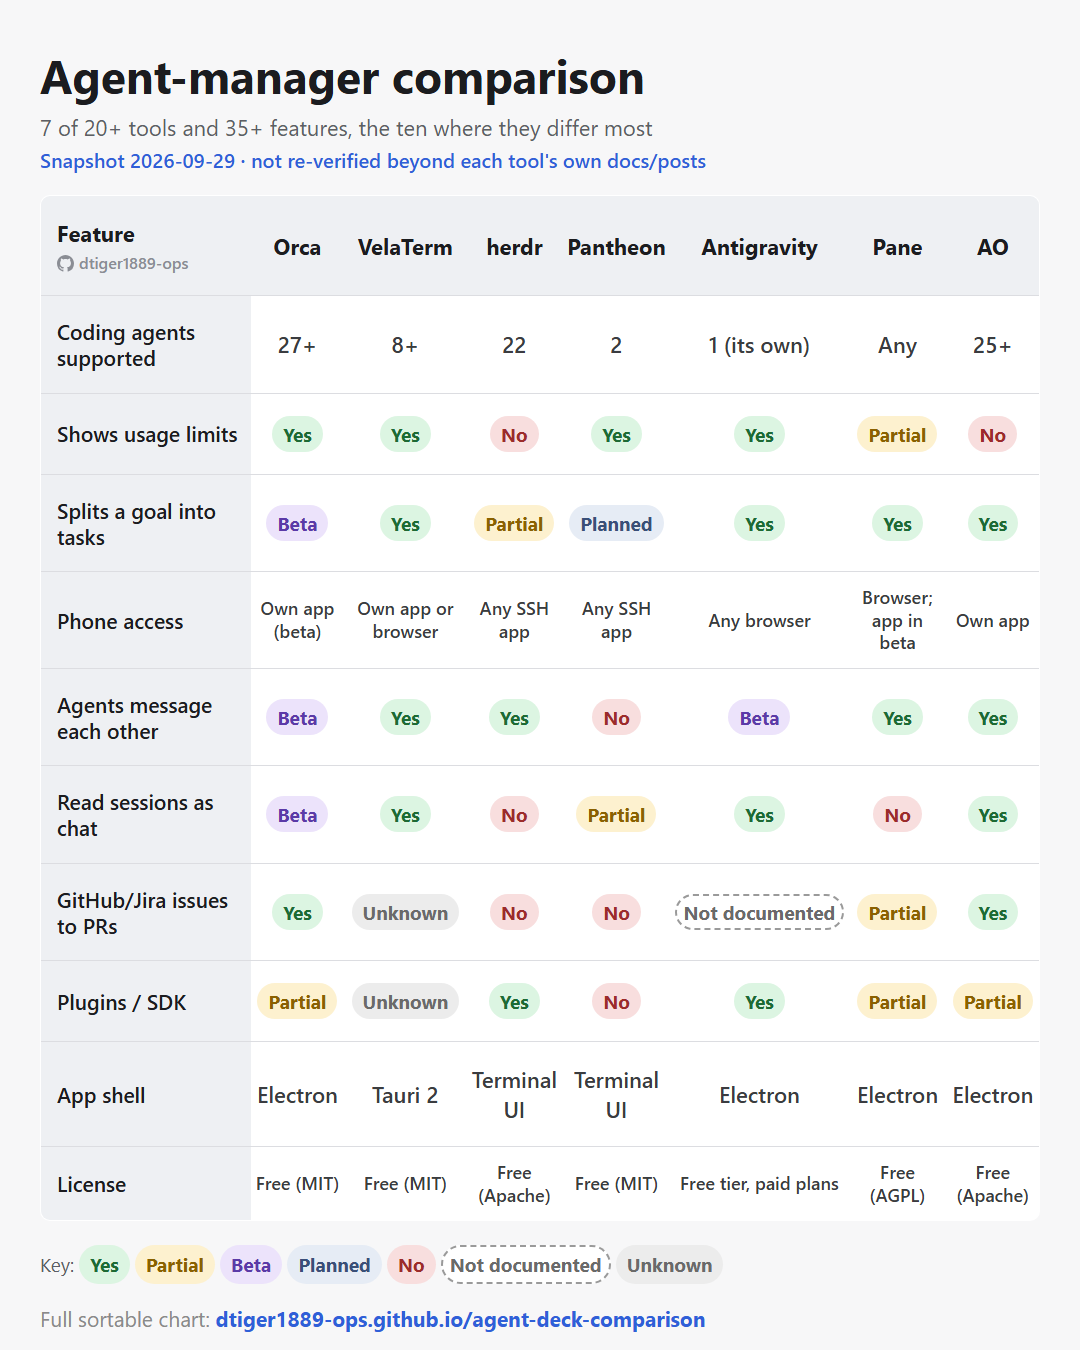
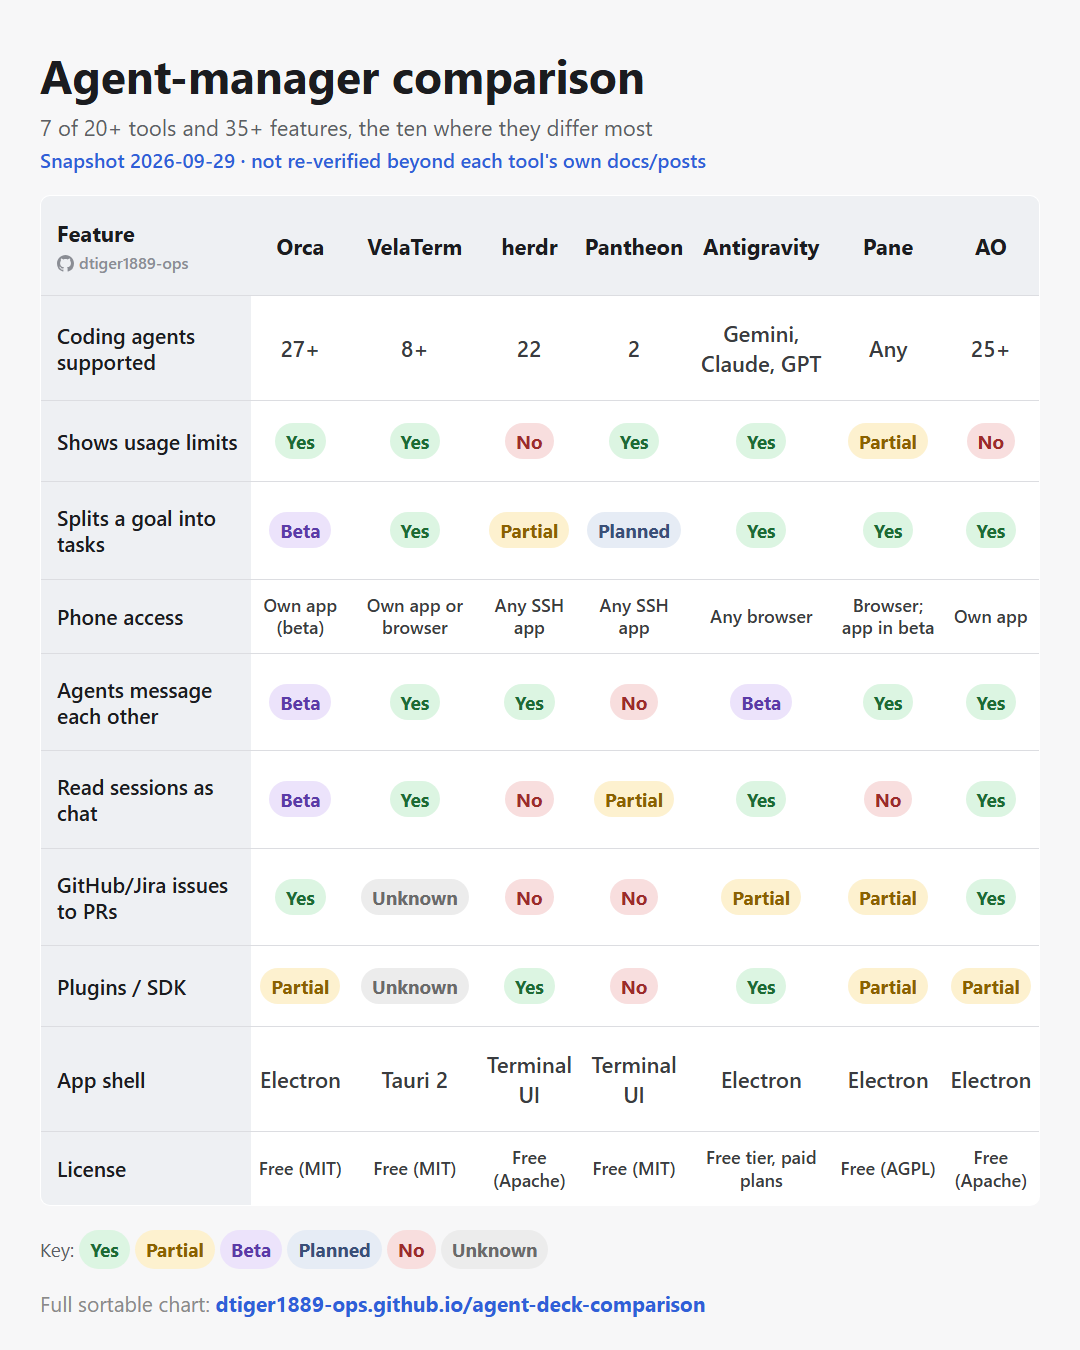
Antigravity: runs Gemini, Claude or GPT (Yes); issues to PRs through GitHub's MCP server (Partial); multi-agent wording for Claude and ChatGPT Desktop

diff --git a/assets/share-2.html b/assets/share-2.html
@@ -30,8 +30,8 @@
   <p class="snap">Snapshot 2026-09-29 &middot; not re-verified beyond each tool's own docs/posts</p>
   <table>
     <thead><tr><th>Feature<span class="wm"><svg class="gh" viewBox="0 0 16 16" width="17" height="17" aria-hidden="true"><path fill="currentColor" d="M8 0c4.42 0 8 3.58 8 8a8.013 8.013 0 0 1-5.45 7.59c-.4.08-.55-.17-.55-.38 0-.27.01-1.13.01-2.2 0-.75-.25-1.23-.54-1.48 1.78-.2 3.65-.88 3.65-3.95 0-.88-.31-1.59-.82-2.15.08-.2.36-1.02-.08-2.12 0 0-.67-.22-2.2.82-.64-.18-1.32-.27-2-.27-.68 0-1.36.09-2 .27-1.53-1.03-2.2-.82-2.2-.82-.44 1.1-.16 1.92-.08 2.12-.51.56-.82 1.28-.82 2.15 0 3.06 1.86 3.75 3.64 3.95-.23.2-.44.55-.51 1.07-.46.21-1.61.55-2.33-.66-.15-.24-.6-.83-1.23-.82-.67.01-.27.38.01.53.34.19.73.9.82 1.13.16.45.68 1.31 2.69.94 0 .67.01 1.3.01 1.49 0 .21-.15.45-.55.37A7.995 7.995 0 0 1 0 8c0-4.42 3.58-8 8-8Z"/></svg>dtiger1889-ops</span></th><th>Orca</th><th>VelaTerm</th><th>herdr</th><th>Pantheon</th><th>Antigravity</th><th>Pane</th><th>AO</th></tr></thead>
-    <tbody><tr><th>Coding agents supported</th><td class="plain">27+</td><td class="plain">8+</td><td class="plain">22</td><td class="plain">2</td><td class="plain">1 (its own)</td><td class="plain">Any</td><td class="plain">25+</td></tr><tr><th>Shows usage limits</th><td><span class="b" style="background:#dcf5e2;color:#1d6b34">Yes</span></td><td><span class="b" style="background:#dcf5e2;color:#1d6b34">Yes</span></td><td><span class="b" style="background:#f8dede;color:#9c2b2b">No</span></td><td><span class="b" style="background:#dcf5e2;color:#1d6b34">Yes</span></td><td><span class="b" style="background:#dcf5e2;color:#1d6b34">Yes</span></td><td><span class="b" style="background:#fdf1cf;color:#8a6100">Partial</span></td><td><span class="b" style="background:#f8dede;color:#9c2b2b">No</span></td></tr><tr><th>Splits a goal into tasks</th><td><span class="b" style="background:#ece3fb;color:#5b3aa8">Beta</span></td><td><span class="b" style="background:#dcf5e2;color:#1d6b34">Yes</span></td><td><span class="b" style="background:#fdf1cf;color:#8a6100">Partial</span></td><td><span class="b" style="background:#e6ecf5;color:#3a4f78">Planned</span></td><td><span class="b" style="background:#dcf5e2;color:#1d6b34">Yes</span></td><td><span class="b" style="background:#dcf5e2;color:#1d6b34">Yes</span></td><td><span class="b" style="background:#dcf5e2;color:#1d6b34">Yes</span></td></tr><tr><th>Phone access</th><td class="plain small">Own app (beta)</td><td class="plain small">Own app or browser</td><td class="plain small">Any SSH app</td><td class="plain small">Any SSH app</td><td class="plain small">Any browser</td><td class="plain small">Browser; app in beta</td><td class="plain small">Own app</td></tr><tr><th>Agents message each other</th><td><span class="b" style="background:#ece3fb;color:#5b3aa8">Beta</span></td><td><span class="b" style="background:#dcf5e2;color:#1d6b34">Yes</span></td><td><span class="b" style="background:#dcf5e2;color:#1d6b34">Yes</span></td><td><span class="b" style="background:#f8dede;color:#9c2b2b">No</span></td><td><span class="b" style="background:#ece3fb;color:#5b3aa8">Beta</span></td><td><span class="b" style="background:#dcf5e2;color:#1d6b34">Yes</span></td><td><span class="b" style="background:#dcf5e2;color:#1d6b34">Yes</span></td></tr><tr><th>Read sessions as chat</th><td><span class="b" style="background:#ece3fb;color:#5b3aa8">Beta</span></td><td><span class="b" style="background:#dcf5e2;color:#1d6b34">Yes</span></td><td><span class="b" style="background:#f8dede;color:#9c2b2b">No</span></td><td><span class="b" style="background:#fdf1cf;color:#8a6100">Partial</span></td><td><span class="b" style="background:#dcf5e2;color:#1d6b34">Yes</span></td><td><span class="b" style="background:#f8dede;color:#9c2b2b">No</span></td><td><span class="b" style="background:#dcf5e2;color:#1d6b34">Yes</span></td></tr><tr><th>GitHub/Jira issues to PRs</th><td><span class="b" style="background:#dcf5e2;color:#1d6b34">Yes</span></td><td><span class="b" style="background:#ececec;color:#6a6a6a">Unknown</span></td><td><span class="b" style="background:#f8dede;color:#9c2b2b">No</span></td><td><span class="b" style="background:#f8dede;color:#9c2b2b">No</span></td><td><span class="b" style="background:#ffffff;color:#6a6a6a;border:2px dashed #9a9a9a;padding:3px 7px">Not documented</span></td><td><span class="b" style="background:#fdf1cf;color:#8a6100">Partial</span></td><td><span class="b" style="background:#dcf5e2;color:#1d6b34">Yes</span></td></tr><tr><th>Plugins / SDK</th><td><span class="b" style="background:#fdf1cf;color:#8a6100">Partial</span></td><td><span class="b" style="background:#ececec;color:#6a6a6a">Unknown</span></td><td><span class="b" style="background:#dcf5e2;color:#1d6b34">Yes</span></td><td><span class="b" style="background:#f8dede;color:#9c2b2b">No</span></td><td><span class="b" style="background:#dcf5e2;color:#1d6b34">Yes</span></td><td><span class="b" style="background:#fdf1cf;color:#8a6100">Partial</span></td><td><span class="b" style="background:#fdf1cf;color:#8a6100">Partial</span></td></tr><tr><th>App shell</th><td class="plain">Electron</td><td class="plain">Tauri 2</td><td class="plain">Terminal UI</td><td class="plain">Terminal UI</td><td class="plain">Electron</td><td class="plain">Electron</td><td class="plain">Electron</td></tr><tr><th>License</th><td class="plain small">Free (MIT)</td><td class="plain small">Free (MIT)</td><td class="plain small">Free (Apache)</td><td class="plain small">Free (MIT)</td><td class="plain small">Free tier, paid plans</td><td class="plain small">Free (AGPL)</td><td class="plain small">Free (Apache)</td></tr></tbody>
+    <tbody><tr><th>Coding agents supported</th><td class="plain">27+</td><td class="plain">8+</td><td class="plain">22</td><td class="plain">2</td><td class="plain">Gemini, Claude, GPT</td><td class="plain">Any</td><td class="plain">25+</td></tr><tr><th>Shows usage limits</th><td><span class="b" style="background:#dcf5e2;color:#1d6b34">Yes</span></td><td><span class="b" style="background:#dcf5e2;color:#1d6b34">Yes</span></td><td><span class="b" style="background:#f8dede;color:#9c2b2b">No</span></td><td><span class="b" style="background:#dcf5e2;color:#1d6b34">Yes</span></td><td><span class="b" style="background:#dcf5e2;color:#1d6b34">Yes</span></td><td><span class="b" style="background:#fdf1cf;color:#8a6100">Partial</span></td><td><span class="b" style="background:#f8dede;color:#9c2b2b">No</span></td></tr><tr><th>Splits a goal into tasks</th><td><span class="b" style="background:#ece3fb;color:#5b3aa8">Beta</span></td><td><span class="b" style="background:#dcf5e2;color:#1d6b34">Yes</span></td><td><span class="b" style="background:#fdf1cf;color:#8a6100">Partial</span></td><td><span class="b" style="background:#e6ecf5;color:#3a4f78">Planned</span></td><td><span class="b" style="background:#dcf5e2;color:#1d6b34">Yes</span></td><td><span class="b" style="background:#dcf5e2;color:#1d6b34">Yes</span></td><td><span class="b" style="background:#dcf5e2;color:#1d6b34">Yes</span></td></tr><tr><th>Phone access</th><td class="plain small">Own app (beta)</td><td class="plain small">Own app or browser</td><td class="plain small">Any SSH app</td><td class="plain small">Any SSH app</td><td class="plain small">Any browser</td><td class="plain small">Browser; app in beta</td><td class="plain small">Own app</td></tr><tr><th>Agents message each other</th><td><span class="b" style="background:#ece3fb;color:#5b3aa8">Beta</span></td><td><span class="b" style="background:#dcf5e2;color:#1d6b34">Yes</span></td><td><span class="b" style="background:#dcf5e2;color:#1d6b34">Yes</span></td><td><span class="b" style="background:#f8dede;color:#9c2b2b">No</span></td><td><span class="b" style="background:#ece3fb;color:#5b3aa8">Beta</span></td><td><span class="b" style="background:#dcf5e2;color:#1d6b34">Yes</span></td><td><span class="b" style="background:#dcf5e2;color:#1d6b34">Yes</span></td></tr><tr><th>Read sessions as chat</th><td><span class="b" style="background:#ece3fb;color:#5b3aa8">Beta</span></td><td><span class="b" style="background:#dcf5e2;color:#1d6b34">Yes</span></td><td><span class="b" style="background:#f8dede;color:#9c2b2b">No</span></td><td><span class="b" style="background:#fdf1cf;color:#8a6100">Partial</span></td><td><span class="b" style="background:#dcf5e2;color:#1d6b34">Yes</span></td><td><span class="b" style="background:#f8dede;color:#9c2b2b">No</span></td><td><span class="b" style="background:#dcf5e2;color:#1d6b34">Yes</span></td></tr><tr><th>GitHub/Jira issues to PRs</th><td><span class="b" style="background:#dcf5e2;color:#1d6b34">Yes</span></td><td><span class="b" style="background:#ececec;color:#6a6a6a">Unknown</span></td><td><span class="b" style="background:#f8dede;color:#9c2b2b">No</span></td><td><span class="b" style="background:#f8dede;color:#9c2b2b">No</span></td><td><span class="b" style="background:#fdf1cf;color:#8a6100">Partial</span></td><td><span class="b" style="background:#fdf1cf;color:#8a6100">Partial</span></td><td><span class="b" style="background:#dcf5e2;color:#1d6b34">Yes</span></td></tr><tr><th>Plugins / SDK</th><td><span class="b" style="background:#fdf1cf;color:#8a6100">Partial</span></td><td><span class="b" style="background:#ececec;color:#6a6a6a">Unknown</span></td><td><span class="b" style="background:#dcf5e2;color:#1d6b34">Yes</span></td><td><span class="b" style="background:#f8dede;color:#9c2b2b">No</span></td><td><span class="b" style="background:#dcf5e2;color:#1d6b34">Yes</span></td><td><span class="b" style="background:#fdf1cf;color:#8a6100">Partial</span></td><td><span class="b" style="background:#fdf1cf;color:#8a6100">Partial</span></td></tr><tr><th>App shell</th><td class="plain">Electron</td><td class="plain">Tauri 2</td><td class="plain">Terminal UI</td><td class="plain">Terminal UI</td><td class="plain">Electron</td><td class="plain">Electron</td><td class="plain">Electron</td></tr><tr><th>License</th><td class="plain small">Free (MIT)</td><td class="plain small">Free (MIT)</td><td class="plain small">Free (Apache)</td><td class="plain small">Free (MIT)</td><td class="plain small">Free tier, paid plans</td><td class="plain small">Free (AGPL)</td><td class="plain small">Free (Apache)</td></tr></tbody>
   </table>
-  <p class="key">Key: <span class="b" style="background:#dcf5e2;color:#1d6b34">Yes</span> <span class="b" style="background:#fdf1cf;color:#8a6100">Partial</span> <span class="b" style="background:#ece3fb;color:#5b3aa8">Beta</span> <span class="b" style="background:#e6ecf5;color:#3a4f78">Planned</span> <span class="b" style="background:#f8dede;color:#9c2b2b">No</span> <span class="b" style="background:#ffffff;color:#6a6a6a;border:2px dashed #9a9a9a;padding:3px 7px">Not documented</span> <span class="b" style="background:#ececec;color:#6a6a6a">Unknown</span></p>
+  <p class="key">Key: <span class="b" style="background:#dcf5e2;color:#1d6b34">Yes</span> <span class="b" style="background:#fdf1cf;color:#8a6100">Partial</span> <span class="b" style="background:#ece3fb;color:#5b3aa8">Beta</span> <span class="b" style="background:#e6ecf5;color:#3a4f78">Planned</span> <span class="b" style="background:#f8dede;color:#9c2b2b">No</span> <span class="b" style="background:#ececec;color:#6a6a6a">Unknown</span></p>
   <p class="footer">Full sortable chart: <b style="color:#2f5fd8">dtiger1889-ops.github.io/agent-deck-comparison</b></p>
 </body></html>

diff --git a/tools/build_data.py b/tools/build_data.py
@@ -489,8 +489,8 @@ antigravity = {
     "source_note": "Docs-verified: official docs, changelog, launch blog and download page read; installer sizes and app shell read from the v2.18.1 downloads; not installed or run.",
     "is_authors_own": False,
     "features": {
-        "multi_provider_supervision": c("partial", "Own agent only, on Gemini, Claude or GPT models"),
-        "harness_count": c("info", "1: its own agent, with a model picker"),
+        "multi_provider_supervision": c("yes", "Gemini, Claude or GPT, switched per task"),
+        "harness_count": c("info", "3: Gemini, Claude, GPT"),
         "needs_you_signal": c("yes", "Desktop notification and chime; phone push"),
         "approve_deny_prompt": c("yes", "Approval card in the app or on your phone"),
         "cross_provider_delegation": c("partial", "Subagents show as cards; only its own agents"),
@@ -507,7 +507,7 @@ antigravity = {
         "limit_governor": c("undocumented", "Not in its docs (checked 2026-09-29)"),
         "account_hotswap": c("undocumented", "Not in its docs (checked 2026-09-29)"),
         "vault_task_source": c("undocumented", "Not in its docs (checked 2026-09-29)"),
-        "issue_tracker_pipeline": c("undocumented", "Not in its docs (checked 2026-09-29)"),
+        "issue_tracker_pipeline": c("partial", "Through GitHub's MCP server; no built-in issue-to-PR flow"),
         "worktree_management": c("yes", "Optional new git worktree per conversation"),
         "planner_orchestrator": c("yes", "Splits work into subagents; team mode in preview"),
         "agent_to_agent_messaging": c("experimental", "Preview team mode, through shared artifacts"),
@@ -588,7 +588,7 @@ claudedesktop = {
     "source_note": "Checked against code.claude.com/docs/en/desktop (the Code tab reference), support.claude.com (Cowork, install, voice), and claude.com/pricing. Not installed or run here.",
     "is_authors_own": False,
     "features": {
-        "multi_provider_supervision": c("partial", "Claude Code only; others via community plugins"),
+        "multi_provider_supervision": c("partial", "Claude Code; Codex needs unofficial add-ons"),
         "harness_count": c("info", "1 built in (Claude Code)"),
         "needs_you_signal": c("yes", "Desktop notification; phone push via Dispatch"),
         "approve_deny_prompt": c("yes", "Prompts in the session, pushed to your phone"),
@@ -889,7 +889,7 @@ codexapp = {
     "source_note": "Checked against learn.chatgpt.com (the Codex and ChatGPT desktop app docs that developers.openai.com/codex/app now redirects to), its What's new page, the pricing page, the official download links, and openai/codex GitHub issues for the app shell. Since 2026-07-09 the Codex app ships inside the ChatGPT desktop app. Not installed or run here.",
     "is_authors_own": False,
     "features": {
-        "multi_provider_supervision": c("no", "Codex only; imports setup from other tools"),
+        "multi_provider_supervision": c("no", "Only Codex"),
         "harness_count": c("info", "1 (Codex)"),
         "needs_you_signal": c("yes", "Notifications plus a waiting-on-you activity list"),
         "approve_deny_prompt": c("yes", "Approve in the chat or from the phone app"),

diff --git a/tools/build_linkedin.py b/tools/build_linkedin.py
@@ -85,7 +85,7 @@ SHORT_AGENTS = {
     "Pantheon": "2",
     "Paseo": "~39",
     "GitKraken Kepler": "Any (claimed)",
-    "Google Antigravity": "1 (its own)",
+    "Google Antigravity": "Gemini, Claude, GPT",
     "Pane": "Any",
     "Agent Orchestrator (AO)": "25+",
 }
